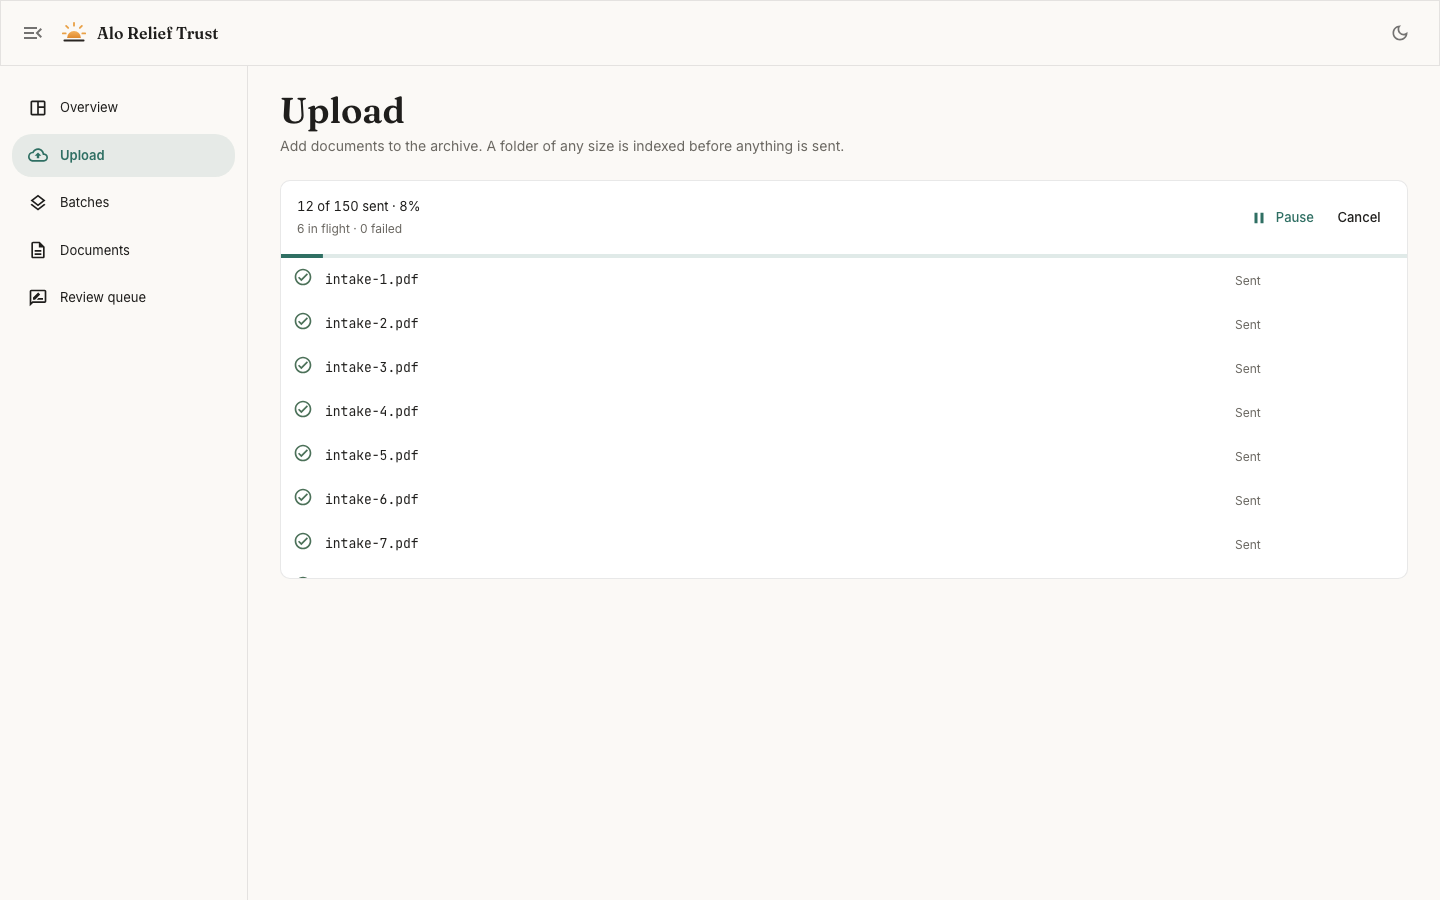
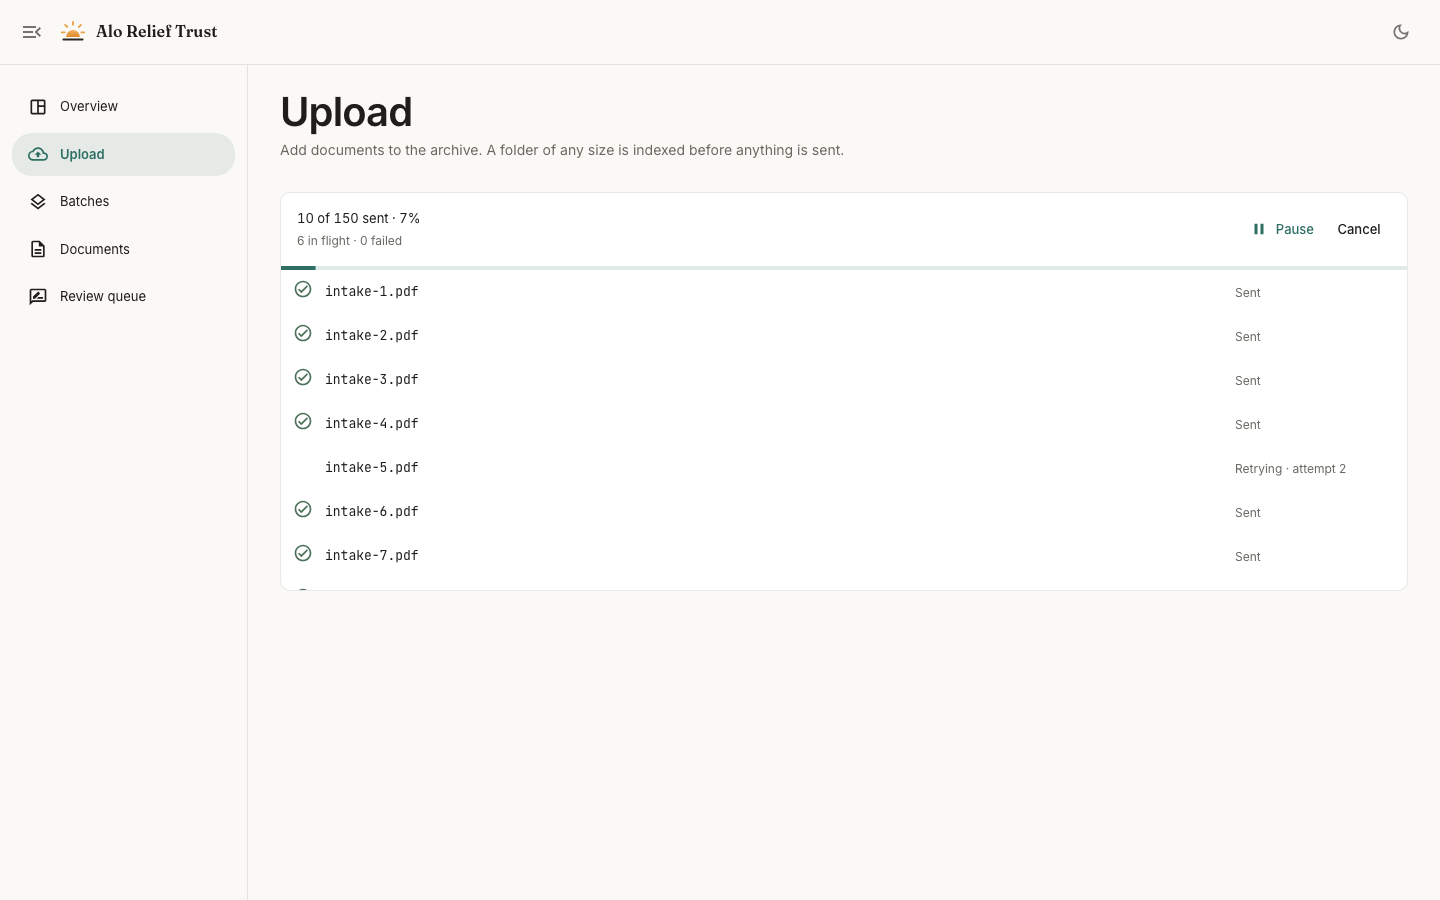
docs: describe the single typeface and the spacing rhythm
Why one family carries the interface, what that forces on the tracking, who
owns which gap, and why both scrolling regions are sized in whole rows.

Screenshots recaptured: the type and the spacing are in all twenty of them, and
so was the sliced last row.

diff --git a/README.md b/README.md
@@ -434,9 +434,26 @@ Bengali for **light**, and these are not server logs — they are enrollment for
 intake sheets and ID scans belonging to real people, handled by an operator doing patient,
 high-volume work for hours.
 
-Fraunces for display figures, Inter for the interface, JetBrains Mono with tabular figures for
-identifiers and counts so numbers do not jitter as they tick up. Motion is slow, and only ever
-communicates a state change.
+Inter for the whole interface — headings included — with JetBrains Mono and tabular figures for
+identifiers, counts and timestamps so numbers do not jitter as they tick up. Fraunces is still
+loaded and appears in exactly one place: the wordmark, which is a logo rather than a heading.
+One family for the interface means the hierarchy has to come from size, weight and tracking, so
+the headings carry negative letter-spacing that tightens as they grow — Inter left at its
+default spacing reads as loose at 40px beside 14px body text, which is how a single-family scale
+ends up looking accidental rather than chosen.
+
+Motion is slow, and only ever communicates a state change.
+
+Spacing has one owner per level. `PageSections` sets the distance between a page's top-level
+blocks and `SECTION_CONTENT_GAP` the distance inside one, at half of it, so "these belong
+together" and "these are separate things" read as different distances. The alternative — a
+bottom margin on the header, another on one panel, a top margin on the next — is how a page ends
+up with four gaps that all look like mistakes, which is what this one had.
+
+Both scrolling regions are sized in whole rows. A fixed height cuts the last row in half
+wherever it happens to land, which reads as a rendering fault rather than as a scroll
+affordance; in the grid it also moved with the density toggle, so it could not be corrected with
+one number.
 
 The mark is a sun rising over a horizon that doubles as the edge of a page. Only the horizon
 follows the theme — through the palette, so it tracks the in-app toggle rather than only the
